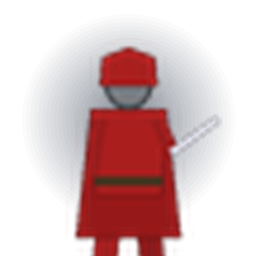
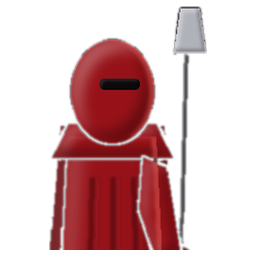
art: painted Emperor's Royal Guard (image service refused)
The image service refused the Royal Guard and the coded fallback was a crude
red block. Paint a lore-accurate master (crimson robe and cloak, smooth
crimson helmet with black visor slit, force pike), derive the 13-file set,
confirm it in the art queue, and use it for future refusals.

diff --git a/production/tools/paint_hero_masters.py b/production/tools/paint_hero_masters.py
@@ -14,6 +14,9 @@ Designs (no actor likeness; costume and equipment carry the identity):
                      green lightsaber raised in a ready guard.
   sw_hero_chewbacca  Wookiee: shaggy brown fur, silver-and-brown cartridge
                      bandolier over the left shoulder, bowcaster held ready.
+  sw_unit_im_royal_guard  The Emperor's Royal Guard: floor-length crimson robe
+                     and cloak, smooth crimson helmet with a narrow black
+                     visor slit, crimson gloves, a tall force pike.
 
 Usage:
   paint_hero_masters.py --out DIR [--unit sw_hero_luke ...]
@@ -294,7 +297,53 @@ def paint_chewbacca() -> Image.Image:
     return c
 
 
-PAINTERS = {"sw_hero_luke": paint_luke, "sw_hero_chewbacca": paint_chewbacca}
+# --- Imperial Royal Guard ---------------------------------------------------------
+
+def paint_royal_guard() -> Image.Image:
+    c = Image.new("RGBA", (SIZE, SIZE), (0, 0, 0, 0))
+    crimson = (150, 18, 24)
+    deep = (104, 10, 16)
+
+    # Force pike first: a tall dark staff with a pale vibro-blade head, held upright.
+    staff = mask_of(lambda d: d.line([(330, 40), (318, 488)], fill=255, width=9))
+    layer(c, staff, (40, 38, 44), light=0.4, depth=3)
+    head = mask_of(lambda d: d.polygon([(322, 6), (340, 6), (346, 48), (316, 48)], fill=255))
+    layer(c, head, (176, 178, 186), light=0.6, depth=3)
+
+    # Long cloak behind the body, flaring to the floor.
+    cloak = mask_of(lambda d: d.polygon([(206, 120), (306, 120), (338, 470), (348, 492), (164, 492),
+                                         (176, 470)], fill=255))
+    layer(c, cloak, deep, light=0.25, shadow=0.55, depth=16)
+    # Robe in front, with long vertical folds.
+    robe = mask_of(lambda d: d.polygon([(214, 130), (298, 130), (316, 488), (196, 488)], fill=255))
+    layer(c, robe, crimson, light=0.3, shadow=0.5, depth=12)
+    folds = Image.new("RGBA", c.size, (0, 0, 0, 0))
+    fd = ImageDraw.Draw(folds)
+    for x0, x1 in ((236, 228), (256, 256), (276, 286)):
+        fd.line([(x0, 170), (x1, 486)], fill=(70, 6, 12, 150), width=4)
+        fd.line([(x0 + 6, 170), (x1 + 6, 486)], fill=(200, 60, 64, 70), width=3)
+    c.alpha_composite(folds.filter(ImageFilter.GaussianBlur(1.5)))
+
+    # Helmet: smooth rounded crimson dome with a flared neck guard and black visor slit.
+    neck = mask_of(lambda d: d.polygon([(214, 118), (298, 118), (314, 150), (198, 150)], fill=255))
+    layer(c, neck, crimson, light=0.35, depth=8)
+    helmet = mask_of(lambda d: d.ellipse((216, 36, 296, 136), fill=255))
+    layer(c, helmet, crimson, light=0.45, shadow=0.45, depth=10)
+    visor = mask_of(lambda d: d.rounded_rectangle((244, 74, 282, 84), 4, fill=255))
+    layer(c, visor, (12, 10, 12), light=0.2, depth=2, outline=False)
+
+    # Crimson-gloved hand gripping the pike.
+    hand = mask_of(lambda d: d.ellipse((304, 236, 336, 268), fill=255))
+    layer(c, hand, deep, light=0.35, depth=5)
+    arm = mask_of(lambda d: d.polygon([(286, 150), (308, 160), (322, 244), (300, 252), (282, 200)], fill=255))
+    layer(c, arm, crimson, light=0.3, depth=8)
+
+    rim(c, ImageChops.lighter(robe, helmet), (255, 120, 110), dx=4, dy=-1)
+    return c
+
+
+PAINTERS = {"sw_hero_luke": paint_luke, "sw_hero_chewbacca": paint_chewbacca,
+            "sw_unit_im_royal_guard": paint_royal_guard}
 
 
 def portrait_from_master(master: Image.Image) -> Image.Image:

diff --git a/agent/coordinator/codex_art.py b/agent/coordinator/codex_art.py
@@ -35,7 +35,7 @@ CODED_TOOL = "production/tools/gen_coded_unit_art.py"
 # Refused heroes with a detailed painted master; others use the simpler coded set.
 PAINT_TOOL = "production/tools/paint_hero_masters.py"
 PORTRAIT_TOOL = "production/tools/fit_portrait.py"
-PAINTED_HEROES = frozenset({"sw_hero_luke", "sw_hero_chewbacca"})
+PAINTED_HEROES = frozenset({"sw_hero_luke", "sw_hero_chewbacca", "sw_unit_im_royal_guard"})
 ART_PYTHON_DEFAULT = Path.home() / "opt" / "swtools" / "bin" / "python"
 MANAGED_ART_ROOT = "art-gen"
 CODEX_TIMEOUT_SECONDS = 1500
